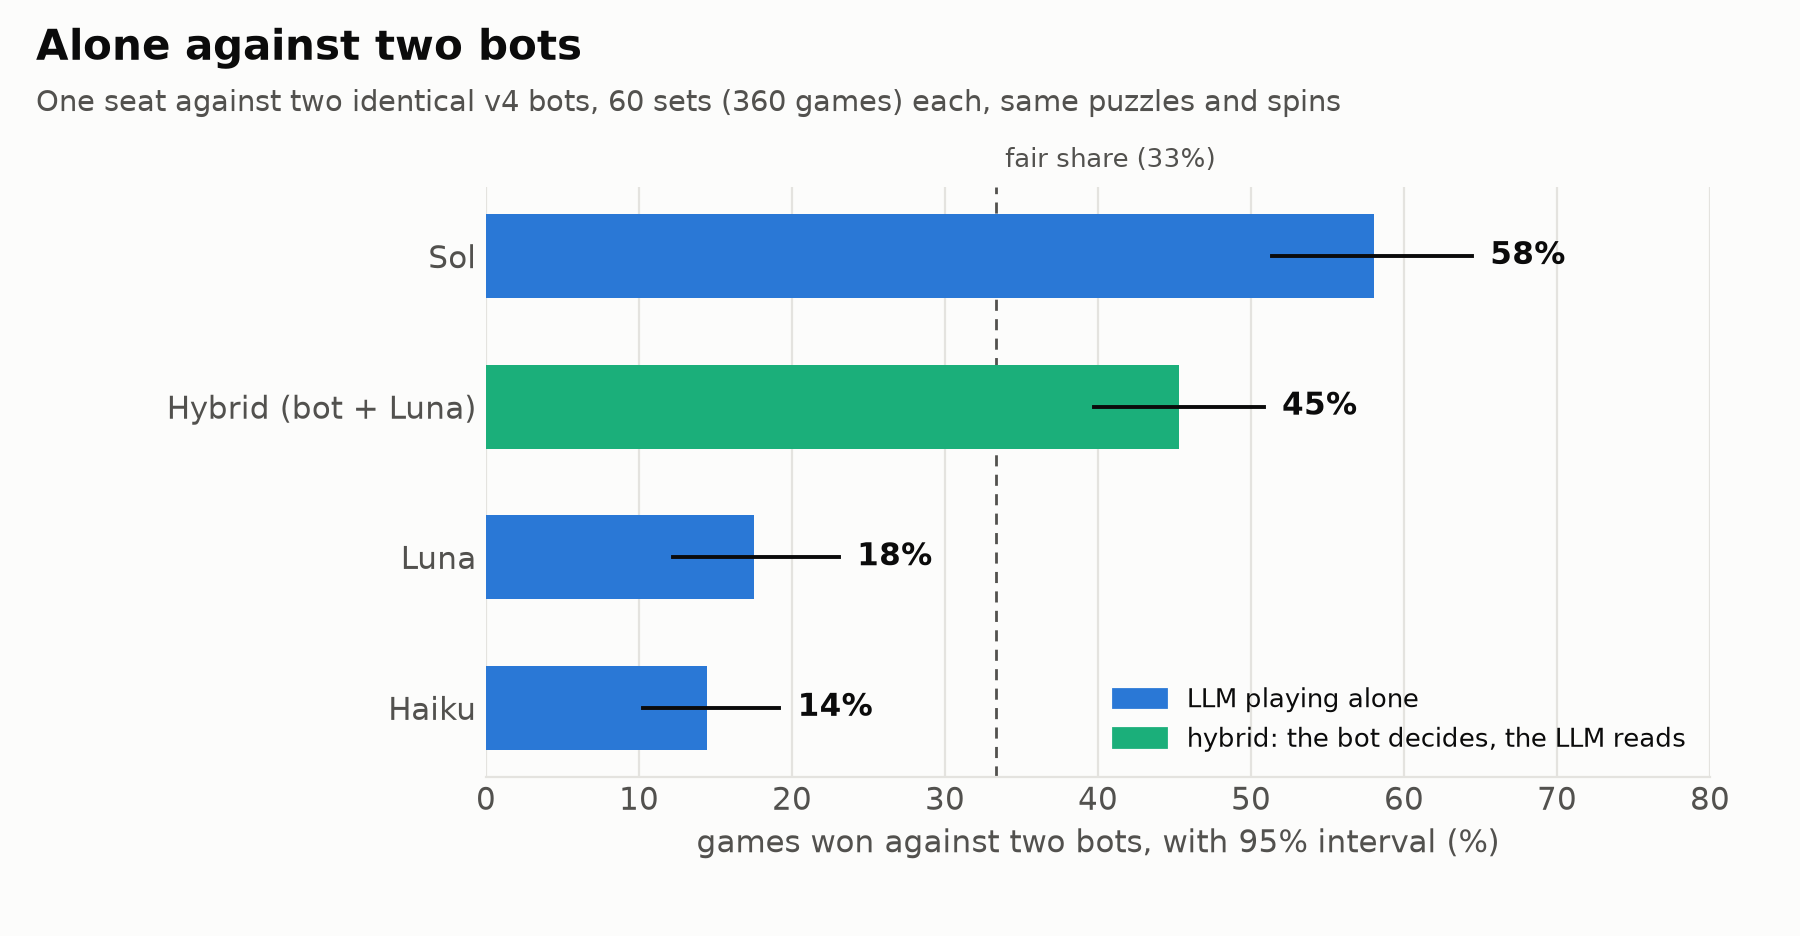
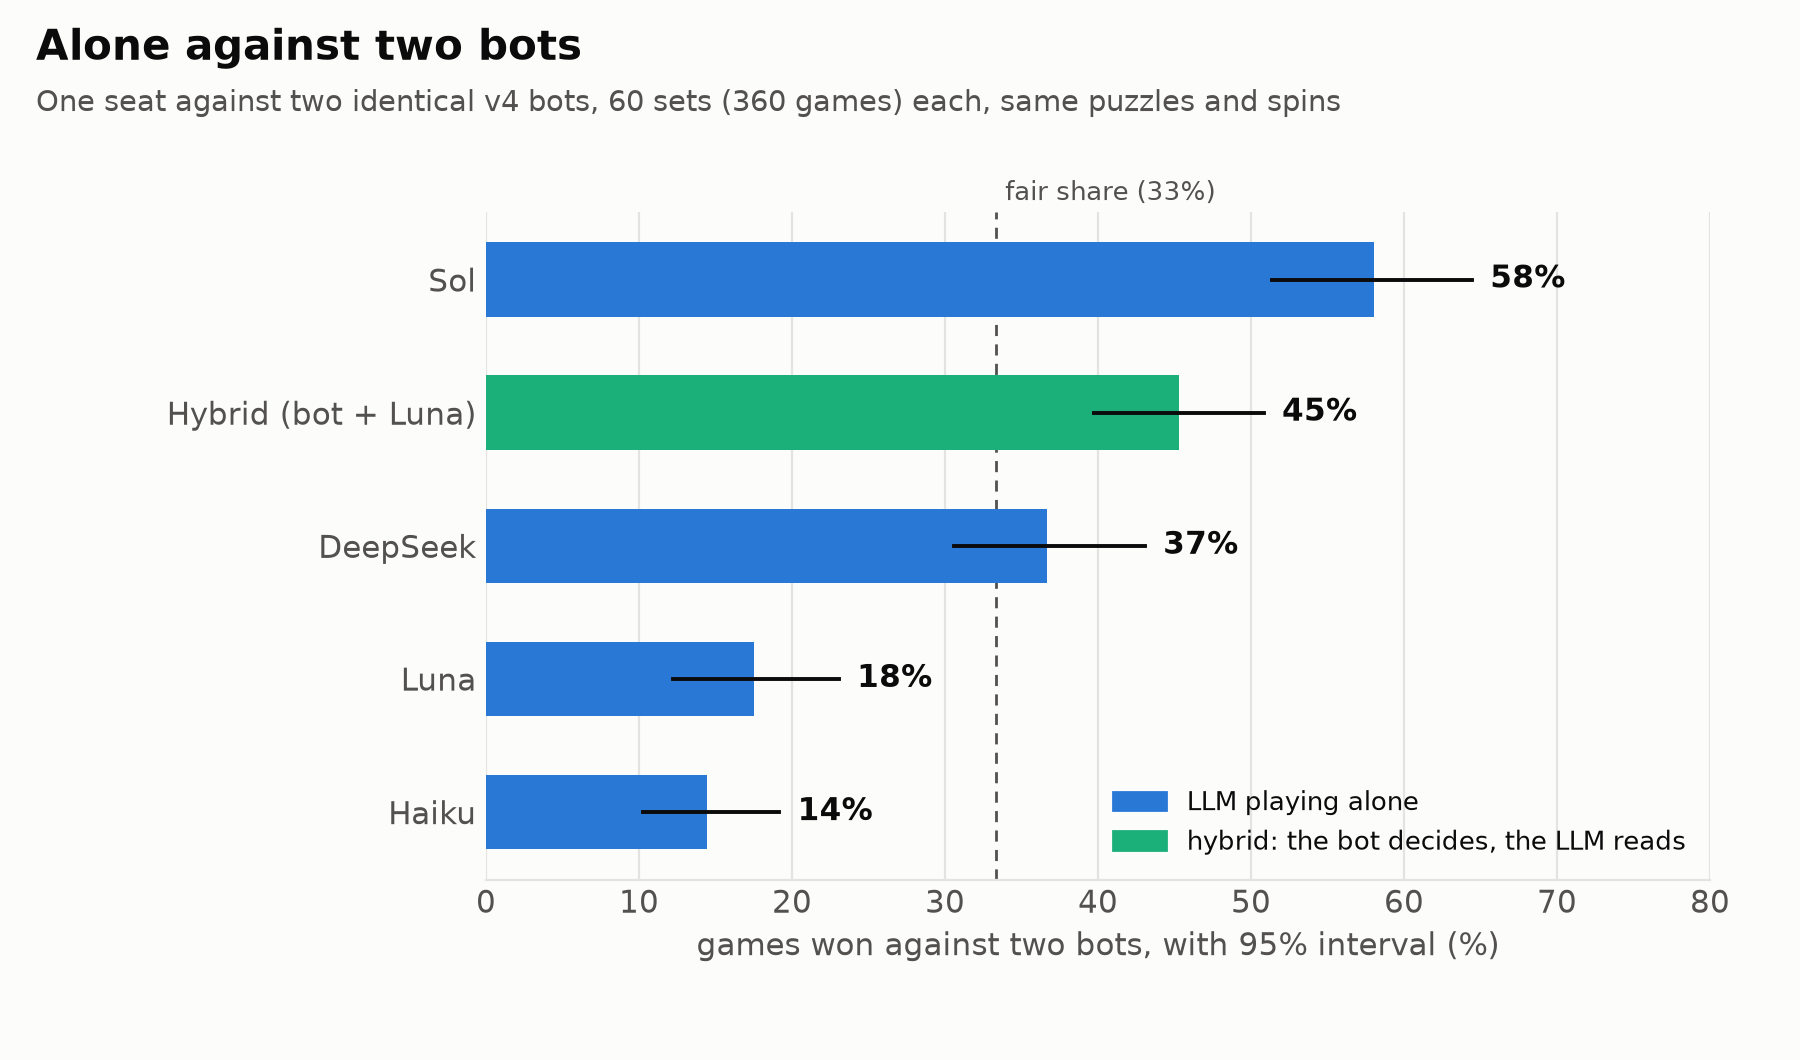
Lineups 6b and 3c finished: the bot 56% against two Haikus; DeepSeek ties the bot at 37%

diff --git a/HANDOFF-UPDATE.md b/HANDOFF-UPDATE.md
@@ -50,6 +50,20 @@ Opposite faults, the same poor result. Sol is the only model that is both early 
 - **150 bad tool calls,** almost all a consonant called without spinning first. Every tool is offered on every move to keep prompts cacheable (it halved costs), and the engine refuses illegal calls and reprompts. Strong models barely trip on this; it goes in the caveats.
 - **Its reading is decent:** inside the hybrid, 84% of the answers it gave were right.
 
+### Lineups 6b and 3c (added later the same evening)
+
+- **The bot against two Haikus:** bot 56% (50–63%), Haikus 23% and 20%. The Haikus both wait (71–74% of the board), so the bot milks freely: $8,933 a game in main-round money.
+- **DeepSeek alone against two bots: 37% (31–43%), a tie.** Its interval includes the 33% null. It's eager and mostly right: 2.12 rounds won a game (more than any model but Sol), at a median bank of only $1,300, 89% of solves right, 0.27 wrong solves a game. The bots' bigger banks balance its many small rounds.
+- **The yardstick, each alone against two bots:**
+
+  | Sol | Hybrid | DeepSeek | Luna | Haiku |
+  |---|---|---|---|---|
+  | 58% | 45% | 37% | 17.5% | 14% |
+
+  Set by set, the hybrid beats DeepSeek by 8.6 points (+2.8 to +14.4).
+- **Both formats agree.** Luna and Haiku lose to the bot by similar margins whether alone against two bots or as two copies against one bot. The copies of each model passed their A/A test.
+- **The null:** if a model played like the bot, each seat would win a third. Win rate against that null shows whether a model is better or worse; the logs show why.
+
 ## 2. Corrections to the briefing
 
 - **The hybrid is a division of labour, not a verification wrapper.** The bot makes every decision (money, letters, risk, and when to solve); Luna only reads the board. Checking answers for fit is one part of it. The parts weren't measured separately, so the lift belongs to the whole split: "the LLM reads, the bot decides". The chess "centaur" comparison fits.
@@ -64,7 +78,7 @@ Opposite faults, the same poor result. Sol is the only model that is both early 
   - **Solo yardsticks** (a model alone against two bots) for DeepSeek and Haiku.
   - **A DeepSeek hybrid,** to test whether the hybrid's lift holds on a second lab.
 - **Remaining today:**
-  1. The bot against two Haikus, and DeepSeek alone
+  1. The bot against two Haikus, and DeepSeek alone (done)
   2. The DeepSeek hybrid, and the bot against two DeepSeeks
 
   About $22 in all. Ian plans to stop the day after these.

diff --git a/GRADING_PLAN.md b/GRADING_PLAN.md
@@ -119,6 +119,18 @@ Set by set: hybrid − Luna alone +27.8 points (+20.8 to +34.7), Sol − Luna al
 
 Luna is reckless (early, often wrong) and Haiku passive (right, but too late): opposite faults, both well below a fair share. Sol, early and right, is the only one of the three that beats the bots. Folders `seed707-6496578d` (6a) and `seed707-4ef950be` (3d).
 
+## Lineups 6b and 3c results (2026-10-31)
+
+| | 6b: bot against two Haikus | 3c: DeepSeek alone against two bots |
+|---|---|---|
+| Win rate | bot **56%** (50–63%); Haikus 23% and 20% | DeepSeek **37%** (31–43%); bots 31% and 32% |
+| Against the 33% null | rejected: the bot is better | **not rejected: DeepSeek ties the bot** |
+| The LLM's solves | 93% right, at 71–74% of the board | 89% right, at 49% of the board |
+| Rounds won per game (the LLM) | | 2.12, at a median bank of $1,300 per round |
+| Cost | $5.55 | $6.20 |
+
+DeepSeek is eager and mostly right: it wins more rounds than any model but Sol, at small banks, and the bots' bigger banks balance it out (main-round money about $6,100 each). Set by set: Sol − DeepSeek +21 (+14 to +28), hybrid − DeepSeek +8.6 (+2.8 to +14.4), DeepSeek − Luna +19, DeepSeek − Haiku +22. Measured from either side (a model alone against two bots, or the bot against two copies), Luna and Haiku lose by similar margins in the same order. The copies of each model passed their A/A test (gaps +1 and +3, intervals across zero).
+
 ## Frontier and other labs: trials only, until there's a grant (2026-10-31)
 
 Three more models had one-set trials (set 0, six games, alone against two bots, on the laptop):
